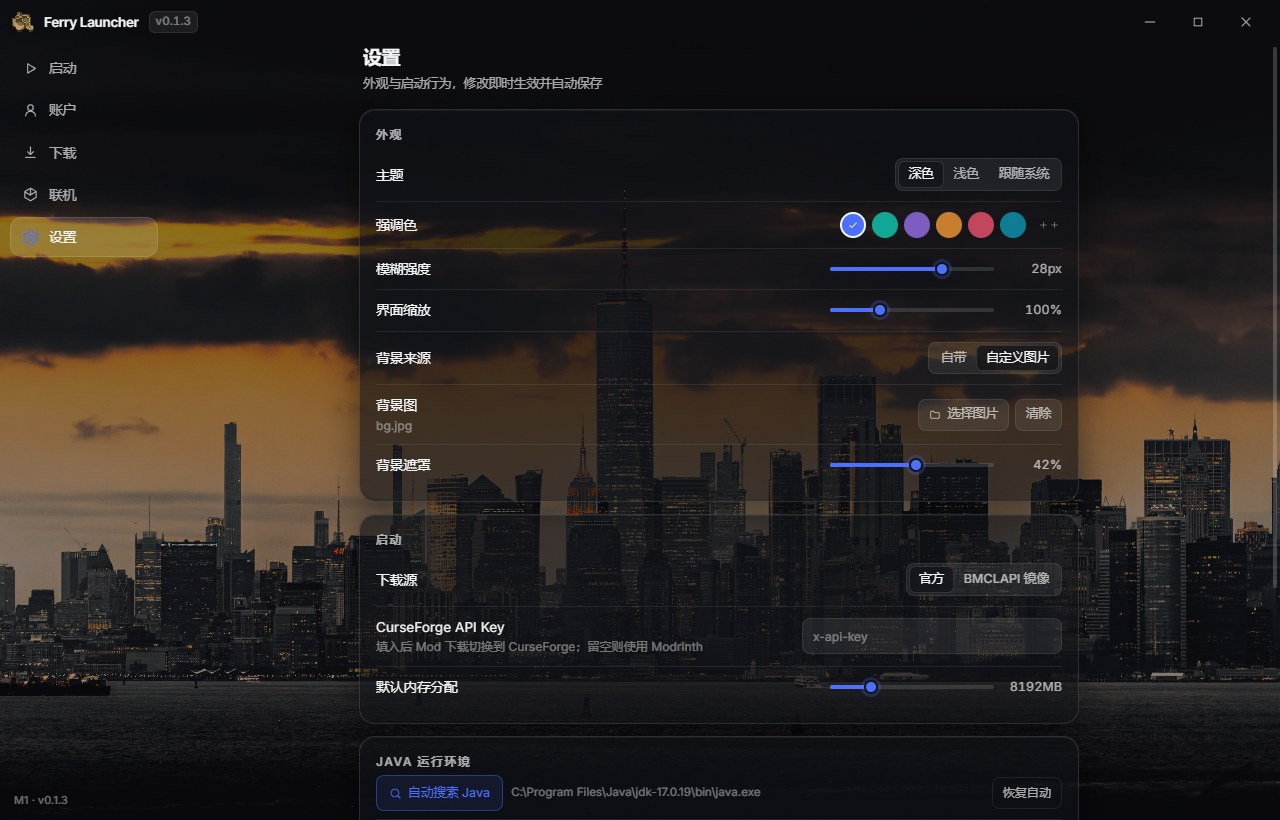
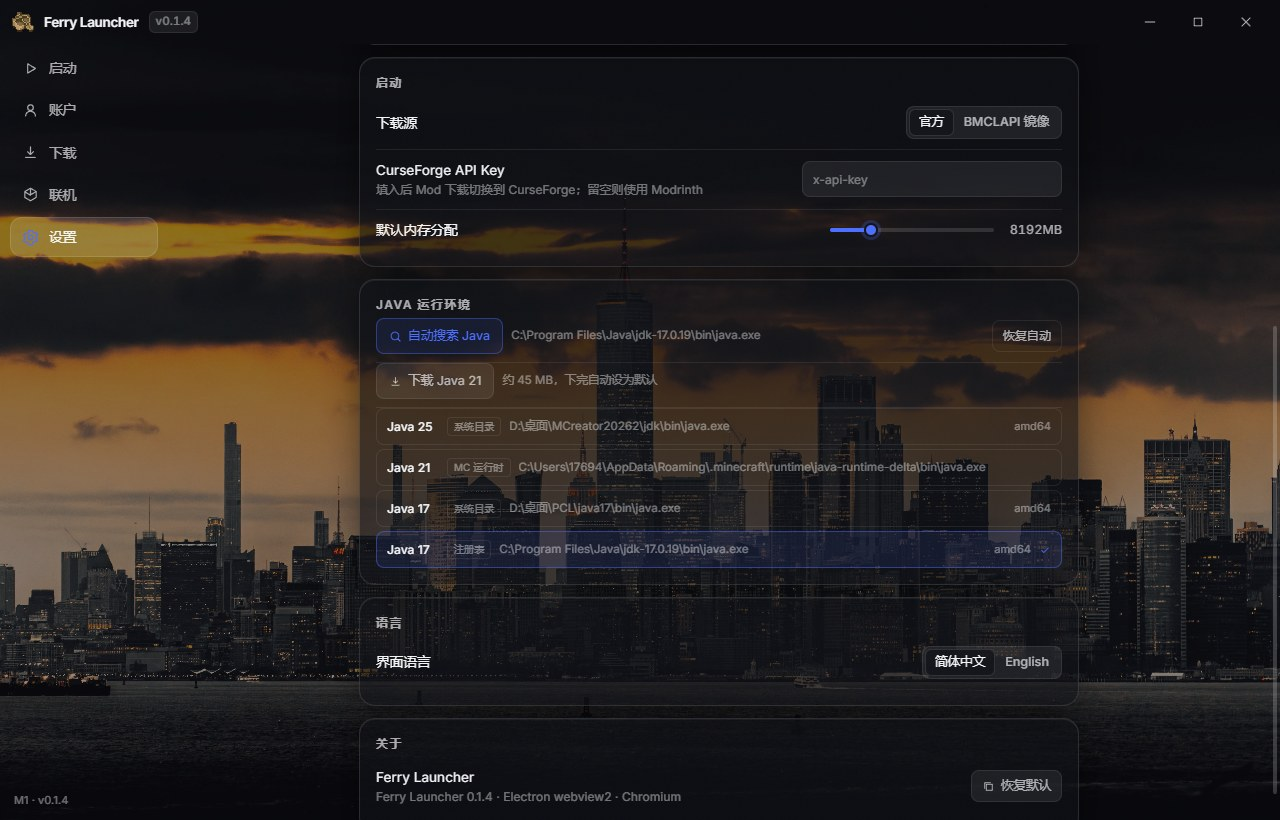
Update to v0.1.4: Java detection sources and refreshed screenshots
- 版本号同步至 0.1.4(灵动岛、exe 名、下载区)
- Java 卡片改为本次重点:标注探测来源(JAVA_HOME / 注册表 / 系统目录 / PATH / MC 运行时 / 启动器自带 / 各盘根目录),设置页会标明每个 Java 的来源,补「新」标签与强调样式
- 崩溃分析卡片移除「新」标签,恢复普通样式
- 5 张界面截图重截为 0.1.4;设置页专门点「自动搜索 Java」并滚动到 Java 区块,展示来源标签
- 展示区设置标题改为「设置 · Java 来源与外观」,图片缓存参数提到 v=3

diff --git a/index.html b/index.html
@@ -49,12 +49,12 @@
       <button class="island" id="island" aria-expanded="false" aria-label="查看运行状态">
         <span class="island__compact">
           <i class="island__dot"></i>
-          <span class="island__ver">v0.1.3</span>
+          <span class="island__ver">v0.1.4</span>
         </span>
         <span class="island__expanded">
           <span class="island__row">
             <i class="island__dot"></i>
-            <b>Ferry Launcher 0.1.3</b>
+            <b>Ferry Launcher 0.1.4</b>
             <span class="island__ready">已就绪</span>
           </span>
           <span class="island__desc">8.8 MB 单文件 · Windows x64 · 5 类资源 · MIT 开源</span>
@@ -116,7 +116,7 @@
                 <span class="window__spacer"></span>
               </div>
               <div class="window__body">
-                <img src="./assets/home.jpg?v=2" alt="Ferry Launcher 主界面,展示实例列表与版本详情" loading="eager" />
+                <img src="./assets/home.jpg?v=3" alt="Ferry Launcher 主界面,展示实例列表与版本详情" loading="eager" />
               </div>
             </div>
             <div class="float-badge float-badge--a">
@@ -189,12 +189,12 @@
             <p>陶瓦联机与 EasyTier 直连,房间码生成与解析。不用公网 IP,运行时还能在应用内一键下载安装。</p>
           </article>
 
-          <article class="feature reveal" style="--d:.24s">
+          <article class="feature feature--accent reveal" style="--d:.24s">
             <div class="feature__icon feature__icon--indigo">
               <svg viewBox="0 0 24 24" aria-hidden="true"><rect x="3" y="4" width="18" height="16" rx="2"/><path d="M7 9h3m-3 4h7m-7 4h4m4-4 2 2 3-4"/></svg>
             </div>
-            <h3>Java 不用你操心</h3>
-            <p>多线程扫描本机 Java,含 PCL 自带的 JRE。1.21+ 缺 Java 21 时可一键从清华镜像下载,启动前自动校验版本。</p>
+            <h3>Java 不用你操心 <span class="tag-new">新</span></h3>
+            <p>从 <code>JAVA_HOME</code>、注册表、系统目录、<code>PATH</code>、Minecraft 官方运行时和启动器自带里一起翻,连各盘根目录都扫一遍,设置页会标出每个 Java 是从哪儿找到的。1.21+ 缺 Java 21 可一键下载。</p>
           </article>
 
           <article class="feature feature--accent reveal" style="--d:.28s">
@@ -205,11 +205,11 @@
             <p>Mod、整合包、数据包、资源包、光影包,可按名称、来源、版本、加载器、分类筛选,结果分页浏览。选中后指定实例一键安装并实时显示进度。</p>
           </article>
 
-          <article class="feature feature--accent reveal" style="--d:.32s">
+          <article class="feature reveal" style="--d:.32s">
             <div class="feature__icon feature__icon--red">
               <svg viewBox="0 0 24 24" aria-hidden="true"><path d="M12 9v5m0 3h.01"/><path d="M10.3 4.2 2.5 18a2 2 0 0 0 1.7 3h15.6a2 2 0 0 0 1.7-3L13.7 4.2a2 2 0 0 0-3.4 0Z"/></svg>
             </div>
-            <h3>崩溃自动分析 <span class="tag-new">新</span></h3>
+            <h3>崩溃自动分析</h3>
             <p>游戏异常退出时自动读日志与 <code>crash-reports</code>,匹配 Java 版本、内存不足、缺前置、Mod 冲突、显卡驱动等十余种常见问题,直接给出原因和修复建议。0.1.3 收紧了匹配规则,正常启动日志不会再被误判。</p>
           </article>
 
@@ -248,11 +248,11 @@
               <span class="showcase-frame__title" id="showcaseTitle">启动 · 实例管理</span>
             </div>
             <div class="showcase-frame__viewport" id="showcaseViewport">
-              <img class="shot is-active" data-shot="home" src="./assets/home.jpg?v=2" alt="启动页与实例管理" />
-              <img class="shot" data-shot="accounts" src="./assets/accounts.jpg?v=2" alt="账户与角色管理" loading="lazy" />
-              <img class="shot" data-shot="download" src="./assets/download.jpg?v=2" alt="版本下载页面" loading="lazy" />
-              <img class="shot" data-shot="multiplayer" src="./assets/multiplayer.jpg?v=2" alt="联机房间页面" loading="lazy" />
-              <img class="shot" data-shot="settings" src="./assets/settings.jpg?v=2" alt="外观与设置页面" loading="lazy" />
+              <img class="shot is-active" data-shot="home" src="./assets/home.jpg?v=3" alt="启动页与实例管理" />
+              <img class="shot" data-shot="accounts" src="./assets/accounts.jpg?v=3" alt="账户与角色管理" loading="lazy" />
+              <img class="shot" data-shot="download" src="./assets/download.jpg?v=3" alt="版本下载页面" loading="lazy" />
+              <img class="shot" data-shot="multiplayer" src="./assets/multiplayer.jpg?v=3" alt="联机房间页面" loading="lazy" />
+              <img class="shot" data-shot="settings" src="./assets/settings.jpg?v=3" alt="外观与设置页面" loading="lazy" />
             </div>
           </div>
         </div>
@@ -283,7 +283,7 @@
   └─ settings    <span class="c-dim"># 设置</span>
 
 <span class="c-dim"># 单文件静态链接</span>
-<span class="c-fn">FerryLauncher</span>-0.1.3.exe
+<span class="c-fn">FerryLauncher</span>-0.1.4.exe
   <span class="c-str">≈ 8.8 MB · 免 VC 运行库</span></code></pre>
           </div>
         </div>
@@ -298,7 +298,7 @@
           <div class="download-card__inner">
             <span class="kicker kicker--light">开始使用</span>
             <h2>准备好启程了吗?</h2>
-            <p>下载即可运行,无需安装、无需运行库。当前版本 v0.1.3,支持 Windows x64。</p>
+            <p>下载即可运行,无需安装、无需运行库。当前版本 v0.1.4,支持 Windows x64。</p>
             <div class="download-card__actions">
               <a class="btn btn--light btn--lg" href="https://github.com/17695432859/Ferry-Launcher/releases" target="_blank" rel="noopener">
                 <svg class="ico" viewBox="0 0 24 24" aria-hidden="true"><path d="M12 3v12m0 0 4-4m-4 4-4-4M5 19h14"/></svg>

diff --git a/script.js b/script.js
@@ -80,7 +80,7 @@ const titles = {
   accounts: '账户 · 角色与皮肤',
   download: '下载 · 版本与资源',
   multiplayer: '联机 · 房间直连',
-  settings: '设置 · 外观偏好',
+  settings: '设置 · Java 来源与外观',
 };
 
 tabs.forEach((tab) => {
